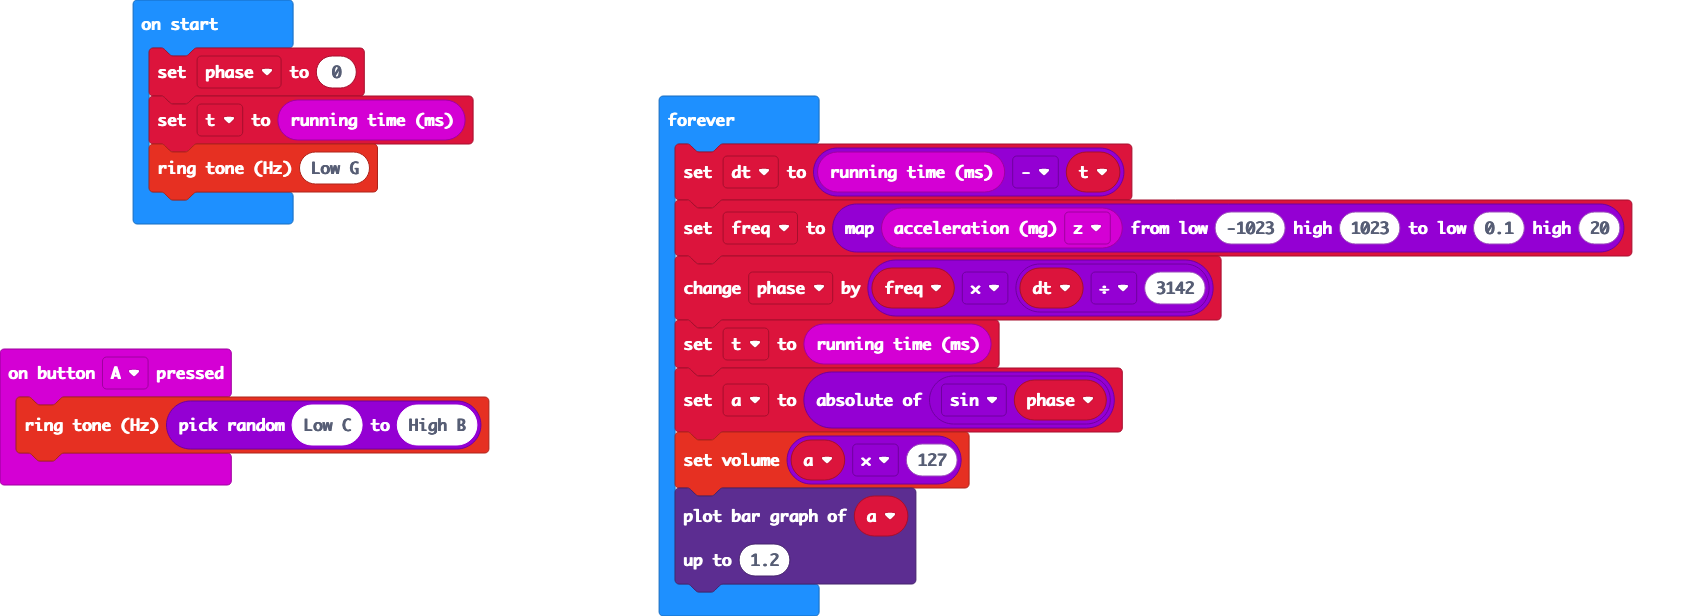
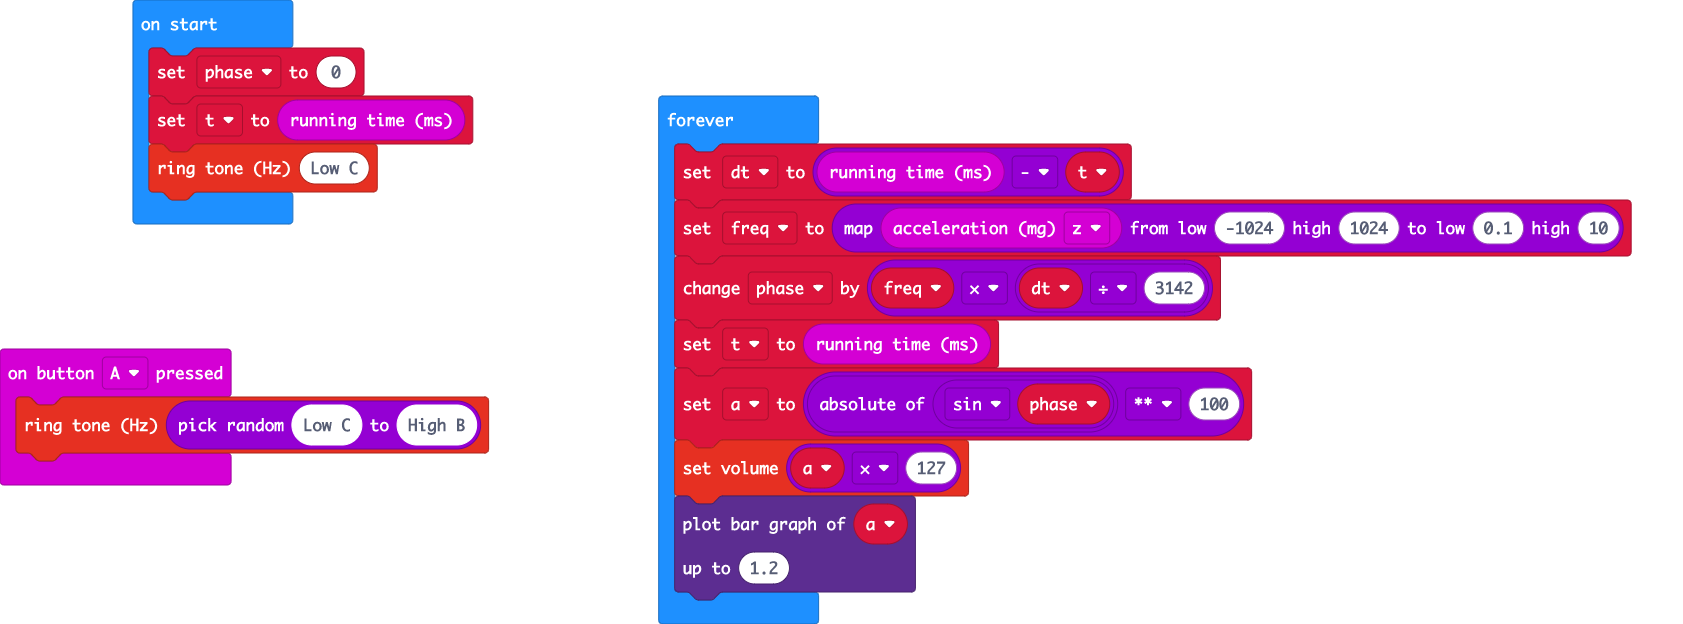
waveshape

diff --git a/main.ts b/main.ts
@@ -6,13 +6,13 @@ let freq = 0
 let dt = 0
 let phase = 0
 let t = input.runningTime()
-music.ringTone(196)
+music.ringTone(131)
 basic.forever(function () {
     dt = input.runningTime() - t
-    freq = Math.map(input.acceleration(Dimension.Z), -1023, 1023, 0.1, 20)
+    freq = Math.map(input.acceleration(Dimension.Z), -1024, 1024, 0.1, 10)
     phase += freq * (dt / 3142)
     t = input.runningTime()
-    a = Math.abs(Math.sin(phase))
+    a = Math.abs(Math.sin(phase)) ** 100
     music.setVolume(a * 127)
     led.plotBarGraph(
     a,
